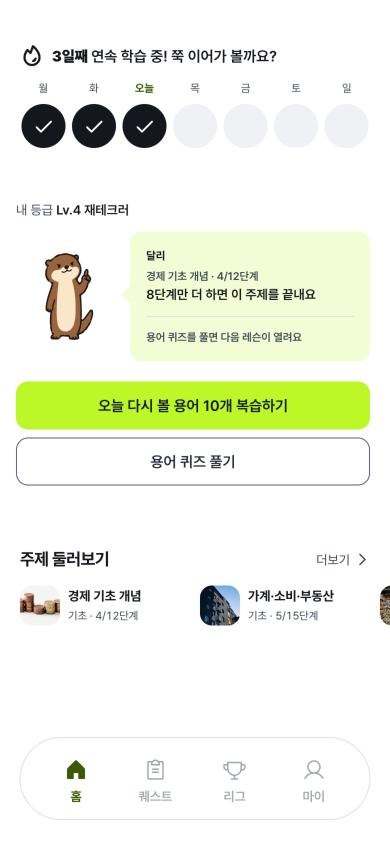
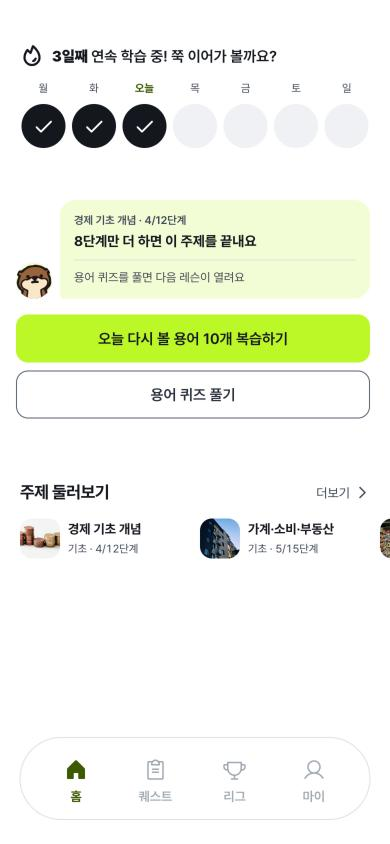
홈 달리를 화자 아바타로: 전신·등급 줄·이름 라벨 삭제, 36px 얼굴 아바타 + 말풍선(16/16/16/4px, 틴트), mood prop(기본 표정만)

diff --git a/src/pages/CourseScreen.tsx b/src/pages/CourseScreen.tsx
@@ -6,7 +6,8 @@ import { ChevronRight } from '../components/ui/ControlIcons';
 import { useLocation, useNavigate, useSearchParams } from 'react-router-dom';
 import { useAppContext } from '../context/AppContext';
 import { logClick } from '../lib/analytics';
-import { ENERGY_ACTION_COST, getGrowthStage } from '../constants';
+import { ENERGY_ACTION_COST } from '../constants';
+import { DaliAvatar } from '../components/DaliAvatar';
 import { calcStreak } from '../lib/streak';
 import { WeekStrip } from '../components/home/WeekStrip';
 import { feedbackNodeTap } from '../lib/feedback';
@@ -86,7 +87,7 @@ const CourseScreen = () => {
   const navigate = useNavigate();
   const isCatalog = useLocation().pathname === '/course/topics';
   const [searchParams, setSearchParams] = useSearchParams();
-  const { hydrated, contentStatus, retryContent, viewedIds: knownIds, courses, energy, energyMax, spendEnergy, pickRecallWords, openShop, xp, attendanceDates, dueQueue } = useAppContext();
+  const { hydrated, contentStatus, retryContent, viewedIds: knownIds, courses, energy, energyMax, spendEnergy, pickRecallWords, openShop, attendanceDates, dueQueue } = useAppContext();
   const hasDue = hydrated && dueQueue.length > 0;
   // 이 기기에서 끝낸 퀴즈·복습 노드. 화면에 돌아올 때마다 다시 읽는다(퀴즈 끝내고 돌아온 직후 반영).
   const [doneNodes, setDoneNodes] = useState<Set<string>>(new Set());
@@ -194,7 +195,6 @@ const CourseScreen = () => {
   const focusSteps = focusTopic ? topicSteps(focusTopic) : { done: 0, total: 0 };
   const focusStepsLeft = focusSteps.total - focusSteps.done;
   const streak = calcStreak(attendanceDates);
-  const stage = getGrowthStage(xp);
   // 지금 할 학습(노드)의 용어를 다 보면 다음 학습으로 넘어간다
   const nextWords = focus?.words ?? [];
   const nextKnown = nextWords.filter(word => knownIds.has(word.id)).length;
@@ -349,18 +349,12 @@ const CourseScreen = () => {
         </section>
 
         <section aria-label="오늘 할 학습" className="course-home-hero">
-          {/* 등급은 수달의 레벨로 읽히지 않게 캐릭터와 떨어진 텍스트 한 줄로 둔다 */}
-          <p className="course-home-tier-chip">내 등급 <strong>Lv.{stage.id} {stage.name}</strong></p>
-          <div className="course-home-hero-body">
-            <div className="course-home-character-wrap">
-              <img className="course-home-character" src="/otter/v5/otter-explain.svg" data-otter="explain" alt="" aria-hidden="true" width={96} height={96} />
-            </div>
-            <div className="course-home-hero-side">
-              <div className="course-home-bubble">
-                {/* 말풍선의 화자는 수달 달리 */}
-                <p className="course-home-bubble-speaker">달리</p>
+          {/* 화자 아바타(달리 얼굴) + 말풍선. 등급은 마이 화면에만 둔다 */}
+          <div className="course-home-speech">
+            <DaliAvatar />
+            <div className="course-home-bubble">
                 {focusTopic && <p className="course-home-bubble-topic">{focusTopic.category} · {focusSteps.done}/{focusSteps.total}단계</p>}
-                <p>{!focusTopic ? '모두 배웠어요! 가볍게 복습해 볼까요?' : focusSteps.done > 0 || focusTopic.known > 0 ? `${focusStepsLeft}단계만 더 하면 이 주제를 끝내요` : '오늘 첫 용어부터 같이 봐요'}</p>
+                <p className="course-home-bubble-main">{!focusTopic ? '모두 배웠어요! 가볍게 복습해 볼까요?' : focusSteps.done > 0 || focusTopic.known > 0 ? `${focusStepsLeft}단계만 더 하면 이 주제를 끝내요` : '오늘 첫 용어부터 같이 봐요'}</p>
                 <div className="course-home-level">
                   <span className="course-home-level-label">{!focus ? '모든 학습을 마쳤어요!' : focus.type === 'quiz' ? '용어 퀴즈를 풀면 다음 레슨이 열려요' : nextRemaining > 0 ? `'${nextWords[0]?.word}' 레슨 용어 ${nextRemaining}개 남았어요` : '다음 학습으로 넘어갈 수 있어요'}</span>
                   {/* 다음이 퀴즈면 채울 용어가 없어 막대가 늘 꽉 차 보이므로 숨긴다 */}
@@ -368,7 +362,6 @@ const CourseScreen = () => {
                     <span style={{ width: `${nextProgress}%` }} />
                   </div>}
                 </div>
-              </div>
             </div>
           </div>
           {/* 복습할 용어가 있으면 복습이 주 버튼, 이어 배우기는 보조 버튼 */}

diff --git a/src/pages/CourseScreen.test.tsx b/src/pages/CourseScreen.test.tsx
@@ -224,9 +224,9 @@ describe('CourseScreen energy gates', () => {
     const hero = container.querySelector('.course-home-hero');
     expect(hero).toHaveAttribute('aria-label', '오늘 할 학습');
     expect(hero?.querySelectorAll('button')).toHaveLength(1);
-    // 히어로 그림은 말풍선과 함께 쓰는 장식 캐릭터 하나뿐이다
+    // 히어로 그림은 말풍선 화자인 달리 얼굴 아바타 하나뿐이다
     expect(hero?.querySelectorAll('img')).toHaveLength(1);
-    expect(hero?.querySelector('img')).toHaveAttribute('aria-hidden', 'true');
+    expect(hero?.querySelector('.dali-avatar img')).toHaveAttribute('alt', '달리');
     expect(hero?.querySelector('.course-home-bubble')).toHaveTextContent('오늘 첫 용어부터 같이 봐요');
     // 아무 용어도 보지 않았으면 다음 학습까지의 진행은 0이고, 어느 레슨의 용어가 몇 개 남았는지 알려준다
     expect(hero?.querySelector('[aria-label="다음 학습까지 진행률"]')).toHaveAttribute('aria-valuenow', '0');
@@ -593,7 +593,8 @@ describe('홈으로 옮긴 학습 현황', () => {
     expect(container.querySelector('.home-streak-card')).toHaveTextContent('연속 학습');
     expect(container.querySelectorAll('.home-streak-card .week-strip-day')).toHaveLength(7);
     expect(container.querySelector('.course-home-hero [aria-label="다음 학습까지 진행률"]')).toBeInTheDocument();
-    expect(container.querySelector('.course-home-tier-chip')).toHaveTextContent('Lv.4 재테크러');
+    // 등급은 마이 화면에만 두고 홈에는 표시하지 않는다
+    expect(container.querySelector('.course-home-tier-chip')).toBeNull();
     // 주간 순위는 리그 화면에서만 보여주므로 홈은 순위를 조회하지 않는다
     expect(container.querySelector('[aria-labelledby="home-weekly-rank"]')).toBeNull();
     expect(container.querySelectorAll('[role="progressbar"]')).toHaveLength(1);

diff --git a/src/index.css b/src/index.css
@@ -1220,3 +1220,13 @@ button.course-home-rail-card { width: 168px; flex-direction: row; align-items: c
 /* 주제 썸네일(홈 카드·뉴스). 사진이 없으면 회색 바탕 + 첫 글자 */
 .topic-thumb { flex-shrink: 0; border-radius: var(--shape-inset); object-fit: cover; background: var(--color-surface); }
 .topic-thumb-fallback { display: inline-flex; align-items: center; justify-content: center; color: var(--color-ink-3); font-size: var(--font-size-label); font-weight: var(--font-weight-bold); }
+/* 홈 화자 아바타 + 말풍선: 아바타 쪽 아래 모서리만 각지게 */
+.course-home-speech { display: flex; align-items: flex-end; gap: 8px; margin-bottom: 16px; }
+.dali-avatar { display: inline-flex; width: 36px; height: 36px; flex-shrink: 0; align-items: center; justify-content: center; overflow: hidden; border-radius: 50%; background: var(--color-accent-soft); }
+.dali-avatar img { width: 36px; height: 36px; }
+.course-home-hero .course-home-speech .course-home-bubble { flex: 1; min-width: 0; margin: 0; padding: 12px 14px; border-radius: 16px 16px 16px 4px; background: var(--color-accent-soft); box-shadow: none; }
+.course-home-hero .course-home-speech .course-home-bubble::before { content: none; }
+.course-home-speech .course-home-bubble-topic { font-size: 11px; }
+.course-home-speech .course-home-bubble-main { margin-top: 2px; color: var(--color-ink); font-size: 14px; font-weight: var(--font-weight-bold); line-height: var(--line-height-body); word-break: keep-all; }
+.course-home-speech .course-home-level-label { font-size: 12px; font-weight: var(--font-weight-regular); }
+.course-home-speech .course-home-level { margin-top: 8px; padding-top: 8px; gap: 6px; }

diff --git a/src/components/DaliAvatar.tsx b/src/components/DaliAvatar.tsx
@@ -1,0 +1,13 @@
+// 홈 말풍선의 화자 아바타: 36px 원 안에 수달 달리 얼굴(단순화본 SVG를 viewBox로 얼굴만 자른 파일).
+// 표정은 아직 기본 하나뿐이라 다른 mood도 기본 얼굴로 대체한다. 새 표정이 생기면 FACES에 경로만 추가한다.
+export type DaliMood = 'default' | 'happy' | 'celebrate' | 'sad';
+
+const FACES: Partial<Record<DaliMood, string>> = {
+  default: '/otter/v5/otter-face-default.svg',
+};
+
+export const DaliAvatar = ({ mood = 'default' }: { mood?: DaliMood }) => (
+  <span className="dali-avatar">
+    <img src={FACES[mood] ?? FACES.default} alt="달리" width={36} height={36} />
+  </span>
+);

diff --git a/docs/CHARACTER_BIBLE.md b/docs/CHARACTER_BIBLE.md
@@ -38,7 +38,7 @@
 | -------------- | --------- | -------------------------- | ------------------------------ |
 | 기본           | `idle`    | 두 손을 모으고 서 있음     | 온보딩 첫 화면                 |
 | 만세           | `cheer`   | 두 팔을 들고 웃음          | 학습 완료, 퀘스트 미션 모두 완료 |
-| 설명           | `explain` | 한 손가락을 들고 웃음      | 홈 오늘 할 학습                |
+| 설명           | `explain` | 한 손가락을 들고 웃음      | 아직 없음(예전 홈 전신)        |
 | 놀람           | `shock`   | 두 손으로 얼굴을 감싸고 입을 벌림, 머리 위 효과선 | 아직 없음(연속 학습 끊김·에너지 부족 후보) |
 | 좌절           | `defeat`  | 엎드려 누움, 머리 위 소용돌이 | 아직 없음(불러오기·저장 실패 후보) |
 
@@ -52,7 +52,7 @@
 
 | 자리            | 포즈                | 크기  | 코드                                   |
 | --------------- | ------------------- | ----- | -------------------------------------- |
-| 홈 오늘 할 학습 | 설명                | 88px  | `CourseScreen.tsx`                     |
+| 홈 오늘 할 학습 | 얼굴 아바타(기본)   | 36px  | `DaliAvatar.tsx`(`otter-face-default.svg`: 단순화본 기본 포즈를 viewBox `29 3 49 49`로 얼굴만 자름). 표정은 `mood` prop으로 확장 |
 | 온보딩 첫 화면  | 기본                | 96px  | `App.tsx` `WelcomeScreen`              |
 | 퀘스트 요약     | 만세(미션을 모두 완료했을 때만) | 72px  | `HomeScreen.tsx`                       |
 | 학습 완료       | 만세                | 128px | `LearningCompletionScreen.tsx`         |
